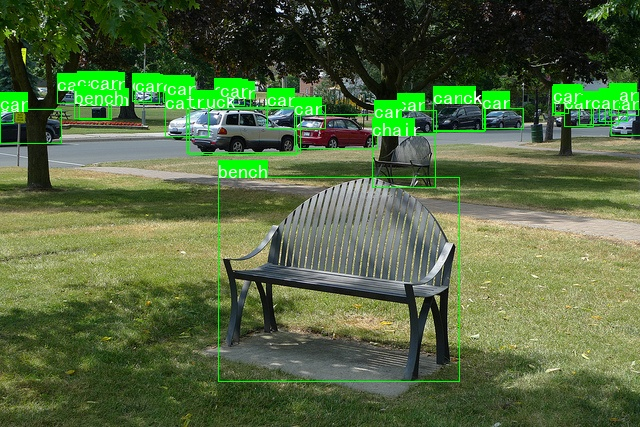
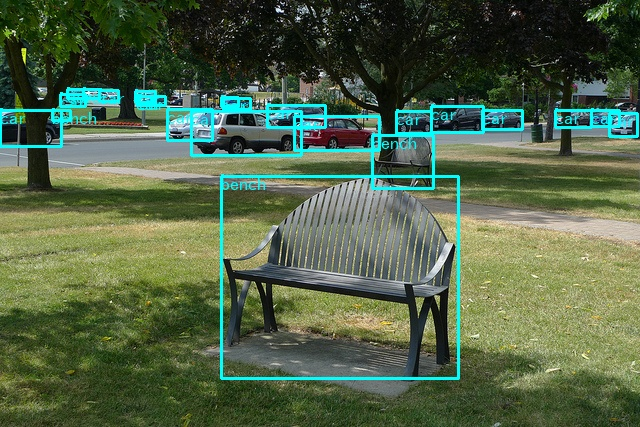
update

Changed region(s): [[0.0, 0.1522, 1.0, 0.9133]]

diff --git a/tests/predictors/test_detector.py b/tests/predictors/test_detector.py
@@ -142,7 +142,7 @@ class DetectorTest(unittest.TestCase):
             decimal=1)
 
     def test_vitdet_detector(self):
-        model_path = 'https://pai-vision-data-hz.oss-cn-zhangjiakou.aliyuncs.com/EasyCV/modelzoo/detection/vitdet/vit_base/vitdet_maskrcnn_export.pth'
+        model_path = 'https://pai-vision-data-hz.oss-cn-zhangjiakou.aliyuncs.com/EasyCV/modelzoo/detection/vitdet/vit_base/epoch_100_export.pth'
         img = 'https://pai-vision-data-hz.oss-cn-zhangjiakou.aliyuncs.com/data/demo/demo.jpg'
         out_file = './result.jpg'
         vitdet = DetrPredictor(model_path)
@@ -154,63 +154,170 @@ class DetectorTest(unittest.TestCase):
         self.assertIn('detection_classes', output)
         self.assertIn('detection_masks', output)
         self.assertIn('img_metas', output)
-        self.assertEqual(len(output['detection_boxes'][0]), 30)
-        self.assertEqual(len(output['detection_scores'][0]), 30)
-        self.assertEqual(len(output['detection_classes'][0]), 30)
+        self.assertEqual(len(output['detection_boxes'][0]), 33)
+        self.assertEqual(len(output['detection_scores'][0]), 33)
+        self.assertEqual(len(output['detection_classes'][0]), 33)
 
         self.assertListEqual(
             output['detection_classes'][0].tolist(),
             np.array([
                 2, 2, 2, 2, 2, 2, 2, 2, 2, 2, 2, 2, 2, 2, 2, 2, 2, 2, 2, 2, 2,
-                2, 2, 2, 7, 7, 13, 13, 13, 56
+                2, 2, 2, 2, 2, 2, 7, 7, 13, 13, 13, 56
             ],
                      dtype=np.int32).tolist())
 
         assert_array_almost_equal(
             output['detection_scores'][0],
             np.array([
-                0.99791867, 0.99665856, 0.99480623, 0.99060905, 0.9882515,
-                0.98319584, 0.9738879, 0.97290784, 0.9514897, 0.95104814,
-                0.9321701, 0.86165, 0.8228847, 0.7623552, 0.76129806,
-                0.6050861, 0.44348577, 0.3452973, 0.2895671, 0.22109479,
-                0.21265312, 0.17855245, 0.1205352, 0.08981906, 0.10596471,
-                0.05854294, 0.99749386, 0.9472857, 0.5945908, 0.09855112
+                0.9975854158401489, 0.9965696334838867, 0.9922919869422913,
+                0.9833580851554871, 0.983080267906189, 0.970454752445221,
+                0.9701289534568787, 0.9649872183799744, 0.9642795324325562,
+                0.9642238020896912, 0.9529680609703064, 0.9403366446495056,
+                0.9391788244247437, 0.8941807150840759, 0.8178097009658813,
+                0.8013413548469543, 0.6677654385566711, 0.3952914774417877,
+                0.33463895320892334, 0.32501447200775146, 0.27323535084724426,
+                0.20197080075740814, 0.15607696771621704, 0.1068163588643074,
+                0.10183875262737274, 0.09735643863677979, 0.06559795141220093,
+                0.08890066295862198, 0.076363705098629, 0.9954648613929749,
+                0.9212945699691772, 0.5224372148513794, 0.20555885136127472
             ],
                      dtype=np.float32),
             decimal=2)
 
         assert_array_almost_equal(
             output['detection_boxes'][0],
-            np.array([[294.7058, 117.29371, 378.83713, 149.99928],
-                      [609.05444, 112.526474, 633.2971, 136.35175],
-                      [481.4165, 110.987335, 522.5531, 130.01529],
-                      [167.68184, 109.89049, 215.49057, 139.86987],
-                      [374.75082, 110.68697, 433.10028, 136.23654],
-                      [189.54971, 110.09322, 297.6167, 155.77412],
-                      [266.5185, 105.37718, 326.54385, 127.916374],
-                      [556.30225, 110.43166, 592.8248, 128.03764],
-                      [432.49252, 105.086464, 484.0512, 132.272],
-                      [0., 110.566444, 62.01249, 146.44017],
-                      [591.74664, 110.43527, 619.73816, 126.68549],
-                      [99.126854, 90.947975, 118.46699, 101.11096],
-                      [59.895264, 94.110054, 85.60521, 106.67633],
-                      [142.95819, 96.61966, 165.96964, 104.95929],
-                      [83.062515, 89.802605, 99.1546, 98.69074],
-                      [226.28802, 98.32568, 249.06772, 108.86408],
-                      [136.67789, 94.75706, 154.62924, 104.289536],
-                      [170.42459, 98.458694, 183.16309, 106.203156],
-                      [67.56731, 89.68286, 82.62955, 98.35645],
-                      [222.80092, 97.828445, 239.02655, 108.29377],
-                      [134.34427, 92.31653, 149.19615, 102.97457],
-                      [613.5186, 102.27066, 636.0434, 112.813644],
-                      [607.4787, 110.87984, 630.1123, 127.65646],
-                      [135.13664, 90.989876, 155.67192, 100.18036],
-                      [431.61505, 105.43844, 484.36508, 132.50078],
-                      [189.92722, 110.38832, 297.74353, 155.95557],
-                      [220.67035, 177.13489, 455.32092, 380.45712],
-                      [372.76584, 134.33807, 432.44357, 188.51534],
-                      [50.403812, 110.543495, 70.4368, 119.65186],
-                      [373.50272, 134.27258, 432.18475, 187.81824]]),
+            np.array([[
+                294.22674560546875, 116.6078109741211, 379.4328918457031,
+                150.14097595214844
+            ],
+                      [
+                          482.6017761230469, 110.75955963134766,
+                          522.8798828125, 129.71286010742188
+                      ],
+                      [
+                          167.06460571289062, 109.95974731445312,
+                          212.83975219726562, 140.16102600097656
+                      ],
+                      [
+                          609.2930908203125, 113.13909149169922,
+                          637.3115844726562, 136.4690704345703
+                      ],
+                      [
+                          191.185791015625, 111.1408920288086, 301.31689453125,
+                          155.7731170654297
+                      ],
+                      [
+                          431.2244873046875, 106.19962310791016,
+                          483.860595703125, 132.21627807617188
+                      ],
+                      [
+                          267.48358154296875, 105.5920639038086,
+                          325.2832336425781, 127.11176300048828
+                      ],
+                      [
+                          591.2138671875, 110.29329681396484,
+                          619.8524169921875, 126.1990966796875
+                      ],
+                      [
+                          0.0, 110.7026596069336, 61.487945556640625,
+                          146.33018493652344
+                      ],
+                      [
+                          555.9155883789062, 110.03486633300781,
+                          591.7050170898438, 127.06097412109375
+                      ],
+                      [
+                          60.24559783935547, 94.12760162353516,
+                          85.63741302490234, 106.66705322265625
+                      ],
+                      [
+                          99.02665710449219, 90.53657531738281,
+                          118.83953094482422, 101.18717956542969
+                      ],
+                      [
+                          396.30438232421875, 111.59194946289062,
+                          431.559814453125, 133.96914672851562
+                      ],
+                      [
+                          83.81543731689453, 89.65665435791016,
+                          99.9166259765625, 98.25627899169922
+                      ],
+                      [
+                          139.29647827148438, 96.68000793457031,
+                          165.22410583496094, 105.60000610351562
+                      ],
+                      [
+                          67.27152252197266, 89.42798614501953,
+                          83.25617980957031, 98.0460205078125
+                      ],
+                      [
+                          223.74176025390625, 98.68321990966797,
+                          250.42506408691406, 109.32588958740234
+                      ],
+                      [
+                          136.7582244873047, 96.51412963867188,
+                          152.51190185546875, 104.73160552978516
+                      ],
+                      [
+                          221.71812438964844, 97.86445617675781,
+                          238.9705810546875, 106.96803283691406
+                      ],
+                      [
+                          135.06964111328125, 91.80916595458984, 155.24609375,
+                          102.20686340332031
+                      ],
+                      [
+                          169.11180114746094, 97.53628540039062,
+                          182.88504028320312, 105.95404815673828
+                      ],
+                      [
+                          133.8811798095703, 91.00375366210938,
+                          145.35507202148438, 102.3780288696289
+                      ],
+                      [
+                          614.2507934570312, 102.19828796386719,
+                          636.5692749023438, 112.59198760986328
+                      ],
+                      [
+                          35.94759750366211, 91.7213363647461,
+                          70.38274383544922, 117.19855499267578
+                      ],
+                      [
+                          554.6401977539062, 115.18976593017578,
+                          562.0255737304688, 127.4429931640625
+                      ],
+                      [
+                          39.07550811767578, 92.73261260986328,
+                          85.36636352539062, 106.73953247070312
+                      ],
+                      [
+                          200.85513305664062, 93.00469970703125,
+                          219.73086547851562, 107.99642181396484
+                      ],
+                      [
+                          0.0, 111.18904876708984, 61.7393684387207,
+                          146.72547912597656
+                      ],
+                      [
+                          191.88568115234375, 111.09577178955078,
+                          299.4097900390625, 155.14639282226562
+                      ],
+                      [
+                          221.06834411621094, 176.6427001953125,
+                          458.3475341796875, 378.89300537109375
+                      ],
+                      [
+                          372.7131652832031, 135.51429748535156,
+                          433.2494201660156, 188.0106658935547
+                      ],
+                      [
+                          52.19819641113281, 110.3646011352539,
+                          70.95110321044922, 120.10567474365234
+                      ],
+                      [
+                          376.1671447753906, 133.6930694580078,
+                          432.2721862792969, 187.99481201171875
+                      ]]),
             decimal=1)
 
 

diff --git a/easycv/predictors/detector.py b/easycv/predictors/detector.py
@@ -213,11 +213,11 @@ class DetrPredictor(PredictorInterface):
             img,
             bboxes,
             labels=labels,
-            colors='green',
-            text_color='white',
-            font_size=20,
-            thickness=1,
-            font_scale=0.5,
+            colors='cyan',
+            text_color='cyan',
+            font_size=18,
+            thickness=2,
+            font_scale=0.0,
             show=show,
             out_file=out_file)
 
